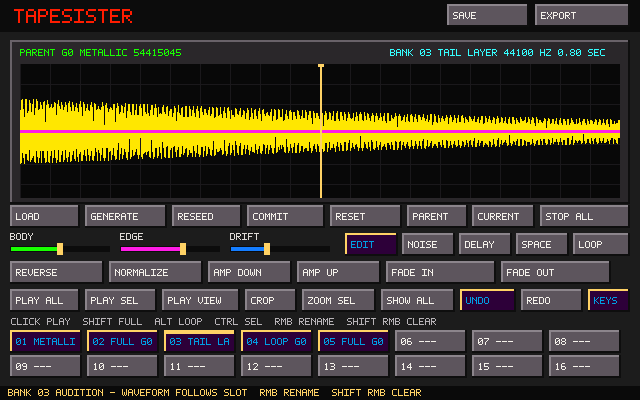
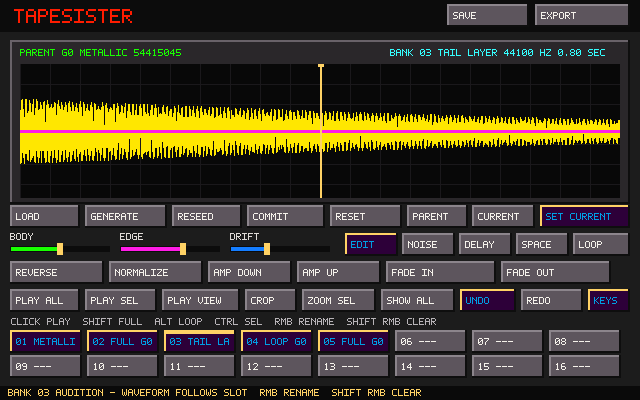
Set auditioned bank member as Current

Changed region(s): [[0.8438, 0.51, 1.0, 0.57]]

diff --git a/tests/test_core.c b/tests/test_core.c
@@ -49,7 +49,7 @@ static int browser_find(const TsBrowser *browser, const char *name)
 int main(void)
 {
     TsSample a, b, loaded, copy, dry, effected, repeated;
-    TsInstrument generated, imported, committed, audition, restored;
+    TsInstrument generated, imported, committed, audition, restored, bank_edit;
     TsUiState ui;
     TsNoteBank notes;
     TsBrowser browser;
@@ -61,6 +61,7 @@ int main(void)
     ts_instrument_init(&generated); ts_instrument_init(&imported); ts_instrument_init(&committed);
     ts_instrument_init(&audition);
     ts_instrument_init(&restored);
+    ts_instrument_init(&bank_edit);
     ts_note_bank_init(&notes);
 
     TsGeneratorRecipe first = generator(0x54415045u, TS_GENERATOR_TONAL);
@@ -234,6 +235,60 @@ int main(void)
     CHECK(committed.undo_count == 0 && committed.redo_count == 0);
     CHECK(!committed.process.delay_enabled && !committed.process.reverb_enabled);
     CHECK(ts_sample_hash(&committed.bank[0].sample) == family_root_hash);
+
+    {
+        uint64_t bank_root;
+        uint64_t prior_parent;
+        uint64_t selected_hash;
+        uint32_t prior_generation;
+        CHECK(ts_instrument_generate(&bank_edit, TS_GENERATOR_TONAL, 0x42414e4bu,
+                                     error, sizeof(error)));
+        bank_root = ts_sample_hash(&bank_edit.bank[0].sample);
+        prior_parent = ts_sample_hash(&bank_edit.parent);
+        prior_generation = bank_edit.generation;
+        ts_instrument_set_selection(&bank_edit, bank_edit.current.frames / 4u,
+                                    bank_edit.current.frames * 3u / 4u);
+        CHECK(ts_instrument_set_loop_from_selection(&bank_edit, error, sizeof(error)));
+        CHECK(ts_instrument_set_loop_crossfade(&bank_edit, 13.0f,
+                                               error, sizeof(error)));
+        CHECK(ts_instrument_bank_capture(&bank_edit, 1, TS_BANK_CAPTURE_LOOP,
+                                         error, sizeof(error)));
+        CHECK(ts_instrument_bank_rename(&bank_edit, 1, "Drone Core",
+                                        error, sizeof(error)));
+        selected_hash = ts_sample_hash(&bank_edit.bank[1].sample);
+        process = bank_edit.process;
+        process.edge = 0.71f;
+        CHECK(ts_instrument_set_process(&bank_edit, &process, error, sizeof(error)));
+        CHECK(bank_edit.undo_count > 0);
+        CHECK(ts_instrument_set_bank_as_current(&bank_edit, 1,
+                                                error, sizeof(error)));
+        CHECK(bank_edit.generation == prior_generation + 1u);
+        CHECK(bank_edit.ancestor_hash == prior_parent);
+        CHECK(bank_edit.source_kind == TS_SOURCE_COMMITTED);
+        CHECK(ts_sample_hash(&bank_edit.parent) == selected_hash);
+        CHECK(ts_sample_hash(&bank_edit.current) == selected_hash);
+        CHECK(strcmp(bank_edit.parent.name, "Drone Core") == 0);
+        CHECK(memcmp(bank_edit.current.data, bank_edit.parent.data,
+                     bank_edit.parent.frames * sizeof(float)) == 0);
+        CHECK(bank_edit.has_loop && bank_edit.loop_first == 0 &&
+              bank_edit.loop_last == bank_edit.current.frames);
+        CHECK(fabsf(bank_edit.loop_crossfade_ms - 13.0f) < 0.0001f);
+        CHECK(bank_edit.undo_count == 0 && bank_edit.redo_count == 0);
+        CHECK(bank_edit.sample_edit_count == 0 && !bank_edit.has_selection);
+        CHECK(!bank_edit.process.noise_enabled && !bank_edit.process.delay_enabled &&
+              !bank_edit.process.reverb_enabled);
+        CHECK(ts_instrument_bank_count(&bank_edit) == 2);
+        CHECK(ts_sample_hash(&bank_edit.bank[0].sample) == bank_root);
+        CHECK(ts_sample_hash(&bank_edit.bank[1].sample) == selected_hash);
+        CHECK(!ts_instrument_set_bank_as_current(&bank_edit, 2,
+                                                 error, sizeof(error)));
+        process = bank_edit.process;
+        process.body = 0.82f;
+        CHECK(ts_instrument_set_process(&bank_edit, &process, error, sizeof(error)));
+        CHECK(ts_sample_hash(&bank_edit.parent) == selected_hash);
+        CHECK(ts_instrument_reset_current(&bank_edit, error, sizeof(error)));
+        CHECK(ts_sample_hash(&bank_edit.current) == selected_hash);
+    }
 
     {
         TsAuditionPlan plan;
@@ -634,7 +689,10 @@ int main(void)
         ts_ui_render(&fb, &ui, &restored);
         bank_waveform = waveform_hash(&fb);
         CHECK(bank_waveform != current_waveform);
+        CHECK(fb.pixels[220 * TS_UI_WIDTH + 625] == 0xff2d0039u);
         ui.bank_view_slot = -1;
+        ts_ui_render(&fb, &ui, &restored);
+        CHECK(fb.pixels[220 * TS_UI_WIDTH + 625] == 0xff5d555du);
     }
     ui.renaming_bank_slot = 2;
     ui.text_cursor_visible = 1;
@@ -720,6 +778,7 @@ int main(void)
     ts_instrument_free(&generated); ts_instrument_free(&imported); ts_instrument_free(&committed);
     ts_instrument_free(&audition);
     ts_instrument_free(&restored);
+    ts_instrument_free(&bank_edit);
     if (failures) return 1;
     puts("TapeSister zero-snap, loop, A/B audition, browser, and editor tests passed");
     return 0;

diff --git a/src/ts_sample.c b/src/ts_sample.c
@@ -1326,6 +1326,57 @@ int ts_instrument_bank_rename(TsInstrument *instrument, int slot, const char *na
     return 1;
 }
 
+int ts_instrument_set_bank_as_current(TsInstrument *instrument, int slot,
+                                      char *error, size_t error_size)
+{
+    TsSample parent;
+    TsSample current;
+    TsProcessRecipe neutral;
+    const TsBankSlot *source;
+    uint64_t prior_hash;
+    size_t loop_first;
+    size_t loop_last;
+    float loop_crossfade_ms;
+    int has_loop;
+    if (instrument == NULL || slot < 0 || slot >= TS_BANK_SLOT_COUNT ||
+        !instrument->bank[slot].occupied) {
+        set_error(error, error_size, "Audition a filled bank slot first");
+        return 0;
+    }
+    source = &instrument->bank[slot];
+    ts_sample_init(&parent);
+    ts_sample_init(&current);
+    if (!ts_sample_clone(&parent, &source->sample, error, error_size)) return 0;
+    ts_process_recipe_reset(&neutral);
+    neutral.seed = instrument->process.seed;
+    if (!ts_sample_process(&current, &parent, 0, parent.frames,
+                           &neutral, error, error_size)) {
+        ts_sample_free(&parent);
+        return 0;
+    }
+    prior_hash = ts_sample_hash(&instrument->parent);
+    loop_first = source->loop_first;
+    loop_last = source->loop_last;
+    loop_crossfade_ms = source->loop_crossfade_ms;
+    has_loop = source->has_loop;
+    ts_sample_free(&instrument->parent);
+    ts_sample_free(&instrument->current);
+    instrument->parent = parent;
+    instrument->current = current;
+    instrument->source_kind = TS_SOURCE_COMMITTED;
+    instrument->process = neutral;
+    instrument->ancestor_hash = prior_hash;
+    ++instrument->generation;
+    reset_editor(instrument);
+    instrument->loop_first = loop_first;
+    instrument->loop_last = loop_last;
+    instrument->loop_crossfade_ms = loop_crossfade_ms;
+    instrument->has_loop = has_loop && loop_first < loop_last &&
+                           loop_last <= current.frames;
+    set_error(error, error_size, "");
+    return 1;
+}
+
 static void bank_safe_name(const char *source, char *destination, size_t size)
 {
     size_t used = 0;

diff --git a/src/main_sdl.c b/src/main_sdl.c
@@ -591,6 +591,36 @@ static void clear_bank_slot(SDL_AudioDeviceID device, AudioState *audio,
     else snprintf(ui->status, sizeof(ui->status), "BANK CLEAR FAILED: %.132s", error);
 }
 
+static void set_auditioned_bank_current(SDL_AudioDeviceID device, AudioState *audio,
+                                        TsUiState *ui, TsInstrument *instrument)
+{
+    char error[160];
+    int slot = ui->bank_view_slot;
+    int ok;
+    if (slot < 0 || slot >= TS_BANK_SLOT_COUNT || !instrument->bank[slot].occupied) {
+        snprintf(ui->status, sizeof(ui->status), "AUDITION A FILLED BANK SLOT FIRST");
+        return;
+    }
+    lock_edit(device, audio);
+    audio->playing = 0;
+    audio->bank_slot = -1;
+    ts_note_bank_clear(&audio->notes);
+    ui->audition_source = TS_AUDITION_CURRENT;
+    ok = ts_instrument_set_bank_as_current(instrument, slot, error, sizeof(error));
+    unlock_edit(device, audio, ui, instrument);
+    ui->active_notes = 0;
+    ui->mouse_note = -1;
+    ui->commit_armed = 0;
+    if (ok) {
+        ts_ui_reset_parent_view(ui, instrument->parent.frames);
+        snprintf(ui->status, sizeof(ui->status),
+                 "BANK %02d SET AS CURRENT - CLEAN EDIT BASE G%u",
+                 slot + 1, instrument->generation);
+    } else {
+        snprintf(ui->status, sizeof(ui->status), "SET CURRENT FAILED: %.133s", error);
+    }
+}
+
 static void begin_bank_rename(TsUiState *ui, const TsInstrument *instrument, int slot)
 {
     if (slot <= 0 || slot >= TS_BANK_SLOT_COUNT) {
@@ -1301,7 +1331,7 @@ int main(int argc, char **argv)
                                            TS_AUDITION_CURRENT, obtained.freq);
                 } else if (y >= 205 && y < 228 && x >= 540 && x < 630) {
                     ui.commit_armed = 0;
-                    stop_all(device, &audio, &ui);
+                    set_auditioned_bank_current(device, &audio, &ui, &instrument);
                 } else if (y >= 233 && y < 257 && x >= 10 && x < 330) {
                     TsProcessRecipe process = instrument.process;
                     const char *label;

diff --git a/include/tapesister/sample.h b/include/tapesister/sample.h
@@ -197,6 +197,8 @@ int ts_instrument_bank_clear(TsInstrument *instrument, int slot,
                              char *error, size_t error_size);
 int ts_instrument_bank_rename(TsInstrument *instrument, int slot, const char *name,
                               char *error, size_t error_size);
+int ts_instrument_set_bank_as_current(TsInstrument *instrument, int slot,
+                                      char *error, size_t error_size);
 int ts_instrument_bank_count(const TsInstrument *instrument);
 int ts_instrument_bank_first_empty(const TsInstrument *instrument);
 int ts_instrument_export_bank(const TsInstrument *instrument, const char *folder,

diff --git a/src/ts_ui.c b/src/ts_ui.c
@@ -447,7 +447,8 @@ void ts_ui_render(TsFramebuffer *fb, const TsUiState *ui, const TsInstrument *in
     button(fb, 330, 205, 72, "RESET", 0);
     button(fb, 407, 205, 61, "PARENT", !showing_bank && ui->audition_source == TS_AUDITION_PARENT);
     button(fb, 472, 205, 63, "CURRENT", !showing_bank && ui->audition_source == TS_AUDITION_CURRENT);
-    button(fb, 540, 205, 90, "STOP ALL", 0);
+    button(fb, 540, 205, 90, "SET CURRENT",
+           showing_bank && shown_slot->occupied);
 
     slider(fb, 10, 233, 100, "BODY", instrument->process.body, PAL_INSTRUMENT);
     slider(fb, 120, 233, 100, "EDGE", instrument->process.edge, PAL_VOLUME);

diff --git a/docs/X220_CHECKLIST.md b/docs/X220_CHECKLIST.md
@@ -70,7 +70,7 @@ This is a musical and interaction checkpoint. Passing tests alone is not approva
 - [ ] After Crop, Parent selection/displayed audition maps to the matching uncropped Parent frames.
 - [ ] Switching Parent/Current during playback preserves relative progress rather than restarting.
 - [ ] The amber Current or green Parent playhead tracks the sounding source and range smoothly.
-- [ ] Stop All, Space, Escape, and natural playback completion hide the playhead.
+- [ ] Space, Escape, and natural playback completion hide the playhead.
 - [ ] Save, Export, edits, Undo, Redo, Reset, and Commit continue to target Current regardless of audition choice.
 
 ## Zero-crossing selection and forward loops
@@ -85,7 +85,7 @@ This is a musical and interaction checkpoint. Passing tests alone is not approva
 - [ ] Set Loop creates one blue forward-loop region with unmistakable start/end markers; Clear removes it.
 - [ ] Each blue flag drags smoothly, remains zero-snapped, updates a playing loop live, and swaps start/end role when crossed.
 - [ ] Releasing a dragged loop flag does not release a note held from the computer keyboard or onscreen keyboard.
-- [ ] Play Loop repeats until Stop All, Space, or Escape; no note or loop remains stuck.
+- [ ] Play Loop repeats until Space or Escape; no note or loop remains stuck.
 - [ ] Computer and onscreen notes provide up to five independent voices, sustain the loop while held, and stop individually on release; without a loop they retain one-shot behavior.
 - [ ] Shift-click builds a latched onscreen chord up to five notes, toggles an active chord note off, and refuses a sixth without stealing a voice.
 - [ ] Every latched white or black key lights at the exact pointer location and sounds the corresponding pitch.
@@ -97,12 +97,12 @@ This is a musical and interaction checkpoint. Passing tests alone is not approva
 - [ ] Loop Set, Clear, and crossfade changes traverse correctly through Undo/Redo.
 - [ ] Reset clears the loop and is undoable; Commit carries the loop onto the promoted Parent and clears old history.
 - [ ] Saved TSR7 projects contain embedded Parent audio, loop state/range/crossfade, bank audio, and complete reconstructive state.
-- [ ] KEYS/BANK switches the lower panel without affecting computer-key audition or Stop All.
+- [ ] KEYS/BANK switches the lower panel without affecting computer-key audition or Space/Escape stopping.
 
 ## Existing foundation
 
 - [ ] Computer and onscreen keys audition the selected A/B source at different pitches.
-- [ ] Space, Escape, and Stop All stop playback reliably.
+- [ ] Space and Escape stop every one-shot, loop, held note, and latched chord reliably without a mouse Stop All button.
 - [ ] A bad WAV path reports an error and preserves Parent and Current.
 - [ ] Save creates a self-contained TSR7 project that reopens without access to the original WAV.
 - [ ] Export creates a valid mono 16-bit WAV containing Current.
@@ -120,7 +120,12 @@ This is a musical and interaction checkpoint. Passing tests alone is not approva
 - [ ] Shift-left-click captures all Current; Alt-left-click captures Loop; Ctrl-left-click captures Selection.
 - [ ] Selection and Loop captures contain exactly the visibly snapped range.
 - [ ] Loop capture retains a full-slot forward loop and the active crossfade milliseconds.
-- [ ] Clicking each occupied slot auditions the correct audio; loop slots continue looping until Stop All, Space, or Escape.
+- [ ] Clicking each occupied slot auditions the correct audio; loop slots continue looping until Space or Escape.
+- [ ] Set Current is inactive without a filled auditioned slot and becomes active after auditioning one.
+- [ ] Set Current stops audition, makes Parent and Current exactly equal to the selected bank audio, and returns the waveform to Current.
+- [ ] A Loop member transfers its full-slot loop and exact crossfade setting into the new Current editing base.
+- [ ] Editing after Set Current rerenders from the selected bank member and never snaps back to the former Parent.
+- [ ] Set Current preserves slot 01 and every sibling, advances generation/ancestry, clears DSP/history, and cannot be undone across that boundary.
 - [ ] Right-click renames occupied slots 02–16 with a visible text caret; Enter accepts and Escape cancels.
 - [ ] Shift-right-click clears slots 02–16, but never slot 01.
 - [ ] A filled slot must be cleared before it can be captured again.

diff --git a/README.md b/README.md
@@ -23,13 +23,13 @@ The **Parent** and **Current** buttons choose what every playback trigger auditi
 
 Play All and keyboard notes use the complete chosen source. Play Selection and Play Displayed map Current's crop-relative range back to the matching frames in Parent, so comparisons remain meaningful after cropping. Switching Parent/Current during playback preserves fractional progress through the active range instead of restarting it.
 
-A source-colored playhead is visible only while audio is running: green identifies Parent playback and amber identifies Current playback. Stop All, Space, Escape, and natural playback completion hide it.
+A source-colored playhead is visible only while audio is running: green identifies Parent playback and amber identifies Current playback. Space, Escape, and natural playback completion hide it.
 
 ## Zero-snapped selection and forward loops
 
 Every mouse-created or adjusted selection endpoint snaps live to the nearest zero crossing in Current. Magenta pixels mark the visible crossings directly on the waveform. The highlight always shows the actual snapped range used by Reverse, Normalize, gain, fades, Crop, and Set Loop. Parent view maps pointer positions through Current's crop before snapping. `Ctrl+A` deliberately keeps exact sample boundaries. If a sound has no mathematical sign crossing, selection falls back deterministically to its closest-to-zero sample.
 
-The Loop page turns the current selection into one forward loop, clears it, plays it continuously, and sets a 0–50 ms wrap crossfade. Blue boundaries and handles distinguish the loop from the purple/cyan selection. Either handle can be dragged live; it remains zero-snapped and automatically becomes the opposite endpoint when crossed. Computer and ordinary onscreen notes sustain the loop only while held; dragging a loop flag never releases them. Play Loop continues until Stop All, Space, or Escape.
+The Loop page turns the current selection into one forward loop, clears it, plays it continuously, and sets a 0–50 ms wrap crossfade. Blue boundaries and handles distinguish the loop from the purple/cyan selection. Either handle can be dragged live; it remains zero-snapped and automatically becomes the opposite endpoint when crossed. Computer and ordinary onscreen notes sustain the loop only while held; dragging a loop flag never releases them. Play Loop continues until Space or Escape.
 
 Parent/Current A/B maps the same loop through the crop offset and preserves relative playback progress. Loop range and crossfade participate in Undo/Redo. Reset clears them and can be undone; Commit carries the completed loop onto the newly promoted Parent while clearing prior edit history.
 
@@ -44,6 +44,8 @@ Every newly generated or imported source starts a 16-slot family with its initia
 - Ctrl-click an empty slot to capture the snapped Selection.
 
 Click any slot to audition it and place that member in the waveform display; an empty slot produces silence and a blank waveform. Right-click an occupied slot 02–16 to rename it, or Shift-right-click to clear it. Slot 01 remains the fixed family root, and occupied slots must be cleared deliberately before reuse. This makes it possible to capture a small snapped selection, grow it, name the successive forms, and keep them as one related sample family.
+
+After auditioning a filled slot, **Set Current** checks that family member out as a new clean editing base. Parent and Current become sample-for-sample identical to the selected audio, stored loop/crossfade metadata follows it, and the complete family bank remains intact. Because every later render must have a stable Parent, this is a deliberate genealogy boundary: it advances the generation, records the previous Parent hash, resets DSP and edit history, and cannot be crossed with Undo. Space and Escape retain the reliable stop-all behavior formerly provided by the redundant mouse button.
 
 While BANK is visible, the top **Export** button and `Ctrl+E` export every occupied slot as a numbered WAV into a new folder named from the initial Parent. Existing folders are never silently replaced. A failed member export removes the partial files and folder. TSR7 projects embed all occupied bank audio and loop metadata; opening a TSR6 project remains supported and initializes its bank root from the embedded Parent.
 

diff --git a/docs/PARENT_CURRENT_MODEL.md b/docs/PARENT_CURRENT_MODEL.md
@@ -22,7 +22,7 @@ Keyboard voices are playback state, not rendered sample state. Up to five voices
 
 Selection endpoints and loop boundaries are Current-relative editor metadata. Mouse selection snaps to Current zero crossings even while Parent is displayed. Parent loop audition adds `crop_first` to reach the corresponding immutable-source frames. Loop crossfade is performed during playback and never rewrites either buffer. Reset clears loop metadata as an undoable edit; Commit preserves it because the heard Current becomes the new Parent with one-to-one frame coordinates.
 
-The sample-family bank is a sibling collection, not part of the Parent-to-Current render chain. A new generated/imported source copies its initial Parent into immutable bank slot 1. Capturing Current, Selection, or Loop deep-copies rendered audio into slots 2–16. Renaming a sibling changes only its bank/export name. Auditioning a sibling temporarily places that stable buffer in the waveform display without changing the Current editing target. Commit changes Parent but deliberately preserves the family root and captured siblings. Starting a genuinely new source starts a new bank.
+The sample-family bank is a sibling collection, not part of the Parent-to-Current render chain. A new generated/imported source copies its initial Parent into immutable bank slot 1. Capturing Current, Selection, or Loop deep-copies rendered audio into slots 2–16. Renaming a sibling changes only its bank/export name. Auditioning a sibling temporarily places that stable buffer in the waveform display without changing the Current editing target. **Set Current** deliberately checks the displayed sibling out as both the new clean Parent and Current so future deterministic renders use that audio rather than snapping back to the former Parent. It preserves the entire bank, transfers stored loop metadata, advances genealogy, records the previous Parent hash, and clears edit history. Commit likewise changes Parent while preserving the family root and captured siblings. Starting a genuinely new source starts a new bank.
 
 TSR7 is the native self-contained project container. It stores the embedded Parent audio, every occupied bank slot with integrity hashes and loop metadata, plus every field required to deterministically rebuild Current. Loading validates the complete container before replacing the live instrument. TSR6 remains readable and receives a root-only bank from its embedded Parent.
 
@@ -30,7 +30,7 @@ Reverse, Normalize, gain, and fades are stored as deterministic, selection-aware
 
 Waveform selection, zoom, and panning are view/editor state. They never alter Parent audio. Commit prints the heard Current into the next Parent generation, then clears the edit stack, DSP, and history as a deliberate hard boundary.
 
-Commit is the deliberate bridge between shaping and genealogy. It requires confirmation in the interface, deep-copies Current into a new Parent, records the previous Parent hash as the new generation's immediate ancestor, resets Current to that Parent, and clears the old edit history. This prevents Undo from crossing an ancestry boundary accidentally.
+Commit and Set Current are deliberate bridges between shaping and genealogy. Commit requires confirmation and deep-copies Current; Set Current checks out a previously captured sibling. Both establish identical Parent/Current audio, record the previous Parent hash as the new generation's immediate ancestor, reset the processing state, and clear old edit history. This prevents Undo from crossing an ancestry boundary accidentally.
 
 Crop is represented as a range into Parent rather than as a destructive rewrite. Undo history therefore stores compact edit state instead of copying large audio buffers. Current is deterministically rerendered from Parent and that state.
 
